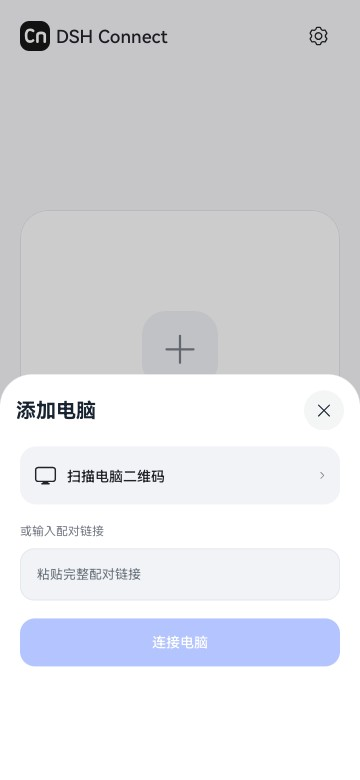
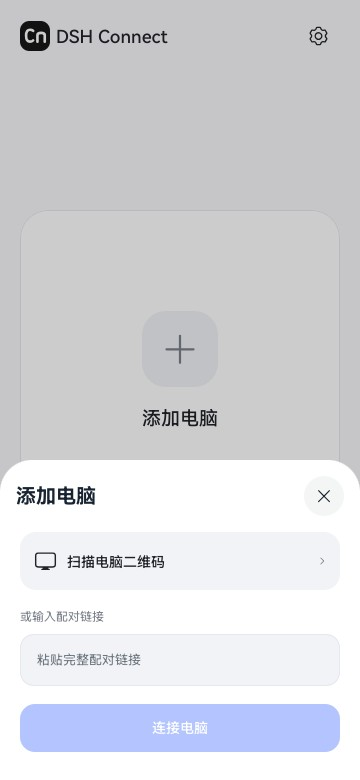
Fit HarmonyOS sheets to content with safe bottom spacing (v1.0.12)

Changed region(s): [[0.0, 0.4615, 1.0, 0.6462], [0.0306, 0.6769, 0.9472, 0.8615], [0.0306, 0.8923, 0.9472, 0.9846]]

diff --git a/docs/VALIDATION.md b/docs/VALIDATION.md
@@ -1,6 +1,6 @@
-# DSH Connect 1.0.11 验证记录
+# DSH Connect 1.0.12 验证记录
 
-验证日期：2026-11-06。维护源、本机插件和 Mate 80 安装版本为 1.0.11／10011。
+验证日期：2026-11-06。维护源、本机插件和 Mate 80 安装版本为 1.0.12／10012。
 
 ## 构建与回归
 
@@ -13,11 +13,11 @@
 
 Mate 80 验收使用 1280 × 2832 完整系统截图。电脑卡片右上角为独立的竖排三点，点按打开系统菜单；卡片按压与左右切换由 ArkUI 驱动。点按卡片可回到已连接工作区。
 
-设置、帮助、添加电脑、重命名与移除确认从底部打开系统半模态面板。设置保留两个系统开关。设置面板顶部位于距屏幕顶部约三分之一处，帮助和编辑表单留出更多首页背景。从设置进入添加电脑，系统返回后重新显示设置；从电脑卡片滑到添加页也能打开同一个面板。移除确认已打开并取消。
+设置、帮助、添加电脑、重命名与移除确认从底部打开系统半模态面板。1.0.11 真机核对了设置开关、设置与添加电脑间的返回、卡片滑动和移除确认取消。1.0.12 中，短面板按内容定高，底部按系统手势区留出间距，长内容可以滚动。
 
 添加电脑提供扫码和网址输入。真机打开 URL 键盘时，首页上方仍可见，输入框与连接按钮均在键盘上方。检查中没有提交链接。
 
-公开图册来自 SDK 原生渲染与演示电脑数据，包含两种首页状态、电脑菜单、添加电脑、设置和帮助。真实设备截图与签名材料仅保存在本地。
+公开图册来自 SDK 原生渲染与演示电脑数据，包含两种首页状态、电脑菜单、添加电脑、设置、帮助和附件面板。真实设备截图与签名材料仅保存在本地。
 
 ## 工作区与连接
 
@@ -25,7 +25,7 @@ Mate 80 覆盖安装后，UID、首次安装时间、签名和原电脑授权保
 
 1.0.10 的工作区版式回归记录保留。手机对话保留 DSH 自带的文件夹按钮及其图标、边框、尺寸和槽位。实际触控打开 DSH 文件面板，宽 366 CSS px，与手机视口等宽，随后返回可退出文件浏览。点按前后电脑文件资源管理器的窗口状态一致。
 
-手机「＋」直接调用既有附件输入，弹出原生拍照、相册、浏览文件面板。系统文档选择器曾在 1.0.9 打开并取消。
+手机「＋」直接调用既有附件输入。Mate 80 核对了紧凑的原生附件面板、三项入口和手势条上方的间距，弹出前后网页高度一致。系统文档选择器曾在 1.0.9 打开并取消。
 
 顶部导航高 40 px、品牌字号 12 px；对话标题和页签区约 66.29 px。1.0.10 通过文字 Range 实测，对话标题与首个页签的首字均从左侧 12 CSS px 开始；标题首字原有的 8 px 内缩已校正。页签字号 12 px，输入工具行宽约 340.29 px。
 
@@ -33,6 +33,6 @@ Mate 80 覆盖安装后，UID、首次安装时间、签名和原电脑授权保
 
 ## 证据与边界
 
-本轮记录位于 `_wip/AUTO_20261105Lifecycle`，包括 `logs/tests-1.0.11.txt`、`logs/final-installed-plugin-1.0.11.json`、`logs/devices-installed-1.0.11.json` 与 `device/Mate80-native-sheets-1.0.11.json`。交付物回读见 `_wip/release/package-readback.json`。
+本轮记录位于 `_wip/AUTO_20261105Lifecycle`，包括 `logs/tests-1.0.12.txt`、`logs/final-installed-plugin-1.0.12.json`、`logs/devices-installed-1.0.12.json`、`device/Mate80-compact-attachments-1.0.12.json` 与上一版的 `device/Mate80-native-sheets-1.0.11.json`。交付物回读见 `_wip/release/package-readback.json`。
 
 扫码新配对、相机／相册实选、附件上传、下载保存、长期锁屏、切网与偏好持久化尚未完成专项验收。签名、授权和真实设备记录不进入公开包。

diff --git a/desktop-plugin/README.md b/desktop-plugin/README.md
@@ -1,10 +1,10 @@
 # DSH Connect 电脑插件
 
-维护版本：`dsh-connect@1.0.11`。为电脑上的 DeepSeek Harness 提供设备配对、浏览器入口和连接恢复；鸿蒙应用与浏览器共用电脑上的会话、文件、工作区、模型及工具。
+维护版本：`dsh-connect@1.0.12`。为电脑上的 DeepSeek Harness 提供设备配对、浏览器入口和连接恢复；鸿蒙应用与浏览器共用电脑上的会话、文件、工作区、模型及工具。
 
 ## 安装
 
-从 [GitHub Releases](https://github.com/LUMIAO9527/DSH-Connect/releases/latest) 获取已发布安装包，本地 1.0.11 构建位于根目录 `artifacts/`。在 DSH「插件 → 添加插件」选择安装包，安装后启用 **DSH Connect**。
+从 [GitHub Releases](https://github.com/LUMIAO9527/DSH-Connect/releases/latest) 获取已发布安装包，本地 1.0.12 构建位于根目录 `artifacts/`。在 DSH「插件 → 添加插件」选择安装包，安装后启用 **DSH Connect**。
 
 已有 DSH CLI 时，可使用 `dsh plugin --profile web add <安装包绝对路径>`；桌面版通过自己的插件管理界面安装。仓库根目录也提供同一个插件的 npm 入口；固定版本更新推荐使用 Release TGZ。
 

diff --git a/harmony/README.md b/harmony/README.md
@@ -1,10 +1,10 @@
 # DSH Connect 鸿蒙应用
 
-维护版本 1.0.11。通过鸿蒙手机或平板，继续使用电脑上的完整 DeepSeek Harness。首页、电脑管理与系统交互使用 ArkUI，连接后的工作区由 ArkWeb 展示。
+维护版本 1.0.12。通过鸿蒙手机或平板，继续使用电脑上的完整 DeepSeek Harness。首页、电脑管理与系统交互使用 ArkUI，连接后的工作区由 ArkWeb 展示。
 
 ## 安装
 
-本地 `artifacts/` 提供 `DSH-Connect-1.0.11-unsigned.hap`，已发布构建见项目 Release。该文件是未签名的 release 构建，需要在 DevEco 中配置自己的开发签名，并在已授权设备上安装。
+本地 `artifacts/` 提供 `DSH-Connect-1.0.12-unsigned.hap`，已发布构建见项目 Release。该文件是未签名的 release 构建，需要在 DevEco 中配置自己的开发签名，并在已授权设备上安装。
 
 正式包名为 `com.lumiao.dshconnect`，版本代码为 10009。已有同包名安装升级时，需使用匹配签名以保留应用数据。设备专用调试包沿用原应用身份与签名。
 

diff --git a/CHANGELOG.md b/CHANGELOG.md
@@ -1,5 +1,9 @@
 # 更新记录
 
+## 1.0.12
+
+- 附件选择和其他短面板按内容调整高度，并在系统手势区上方保留底部间距。
+
 ## 1.0.11
 
 - 电脑卡片右上角提供竖排三点菜单，支持设为主电脑、重命名和移除。
